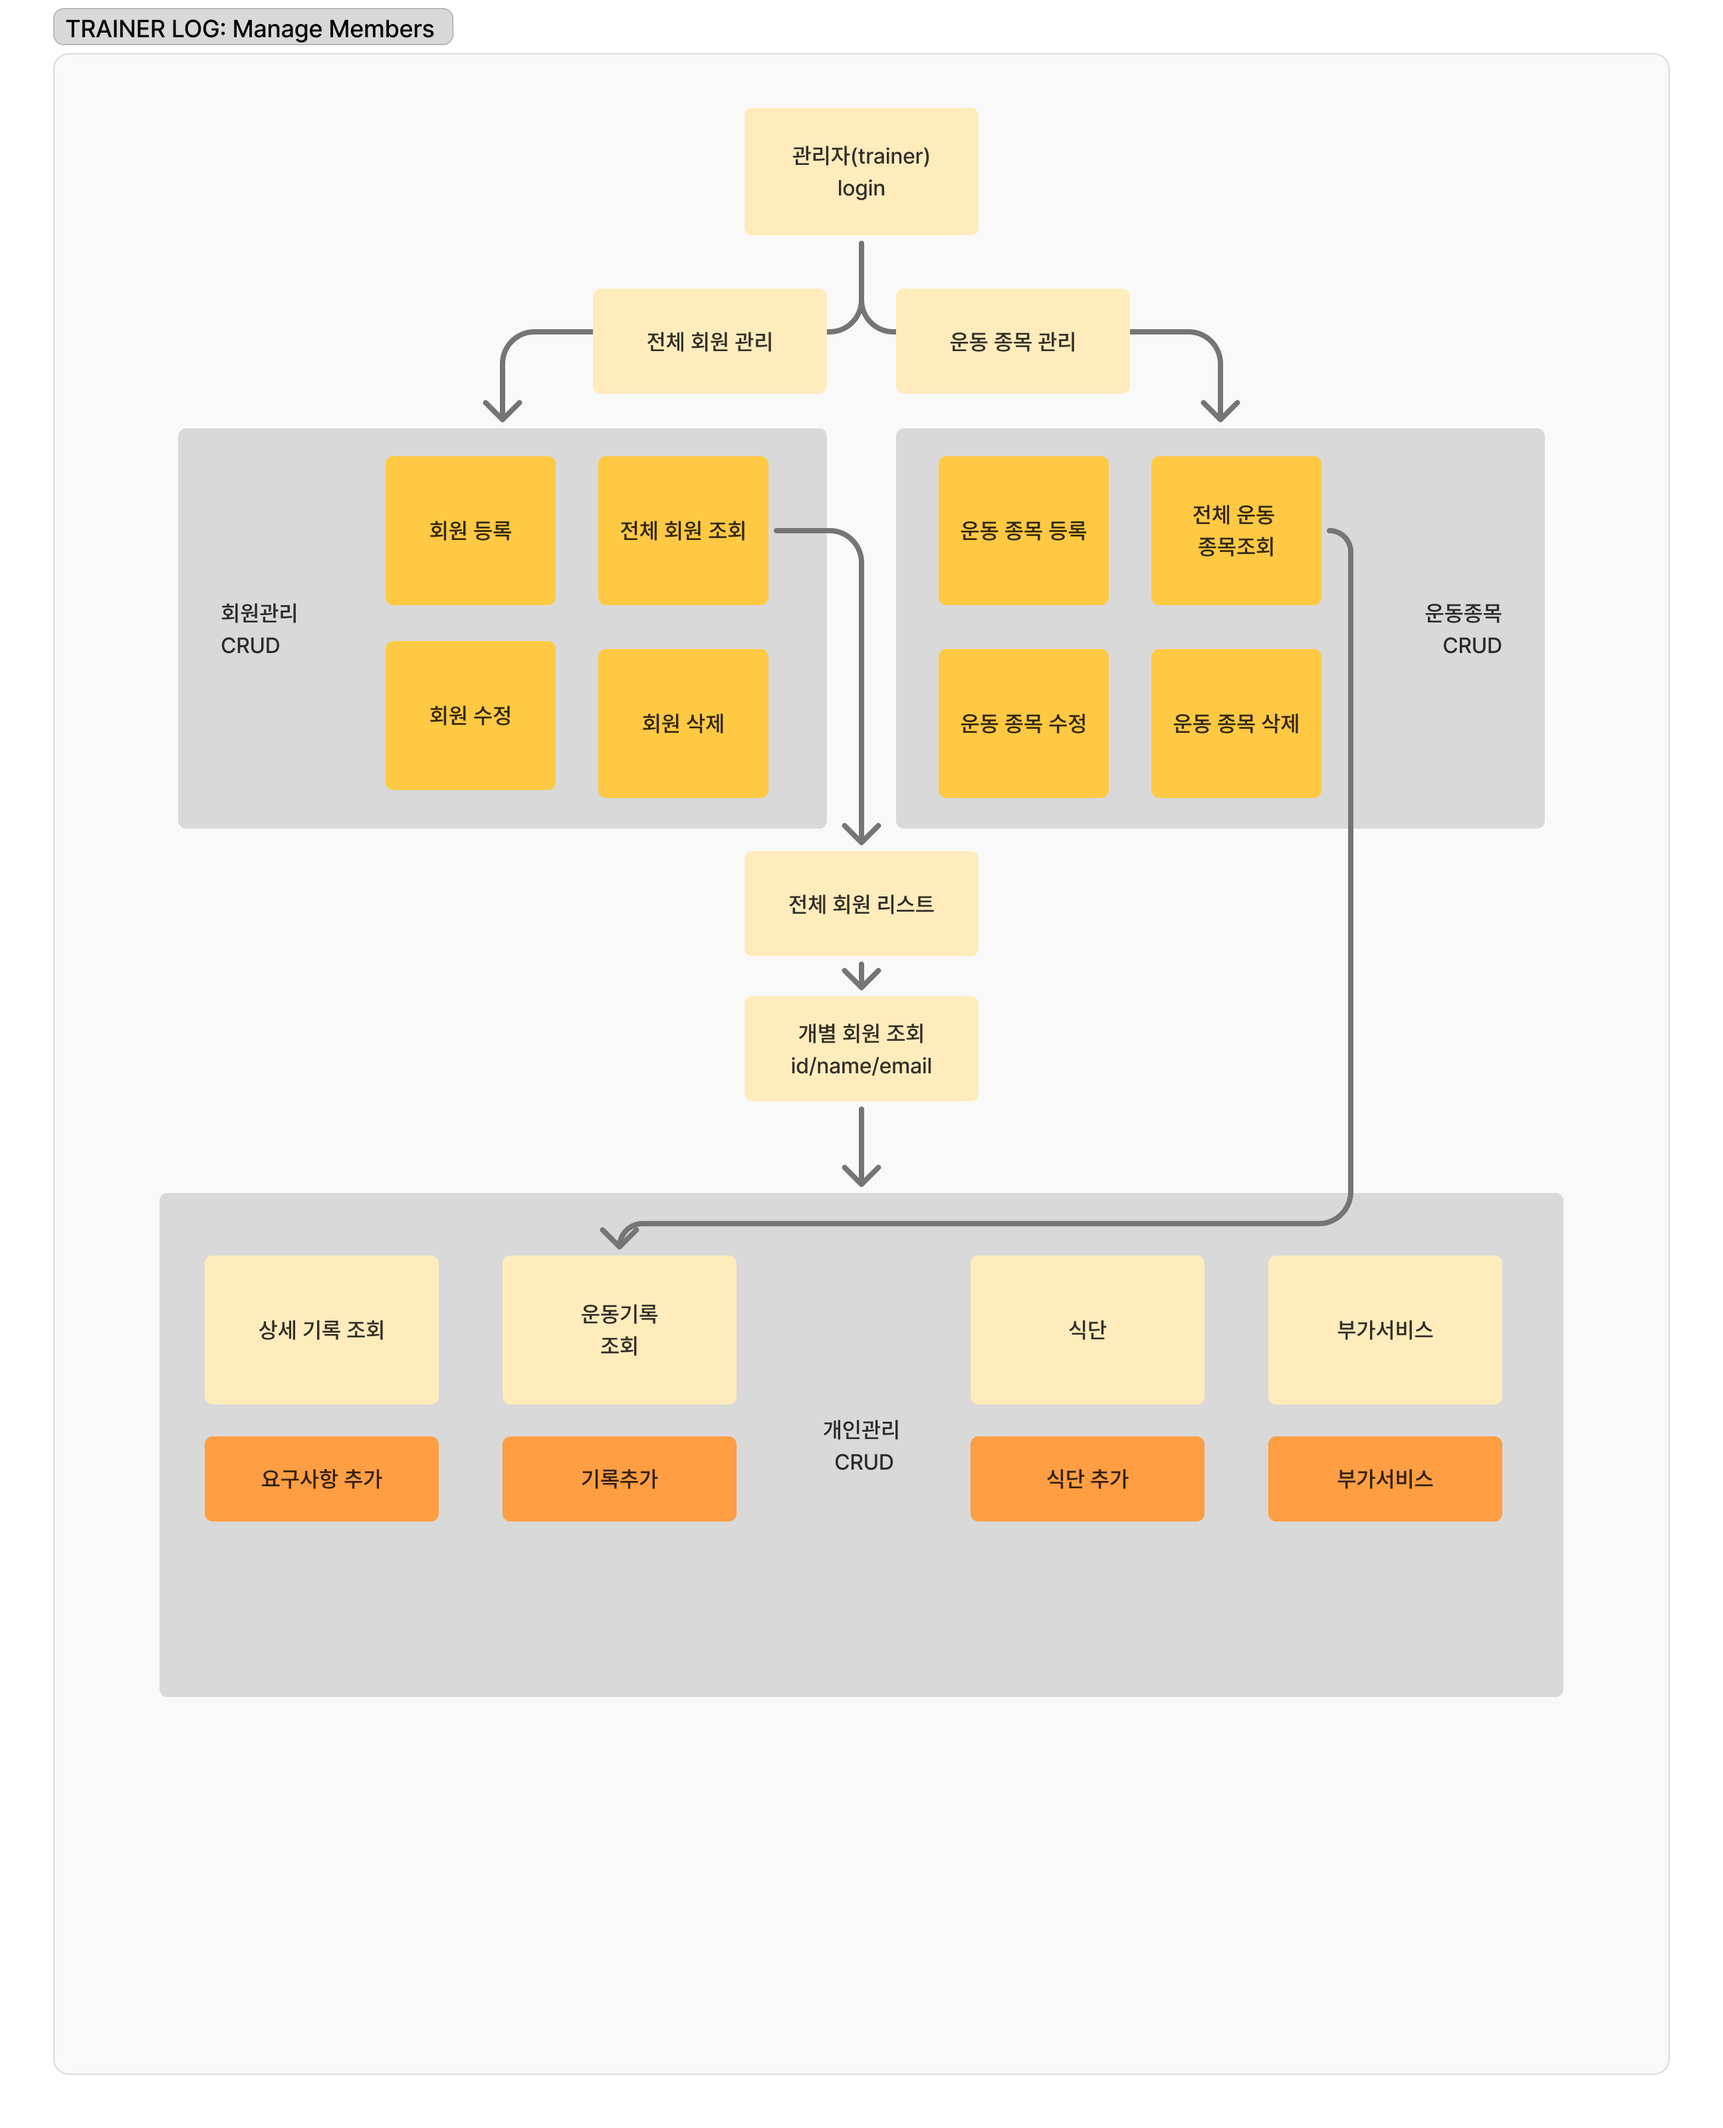
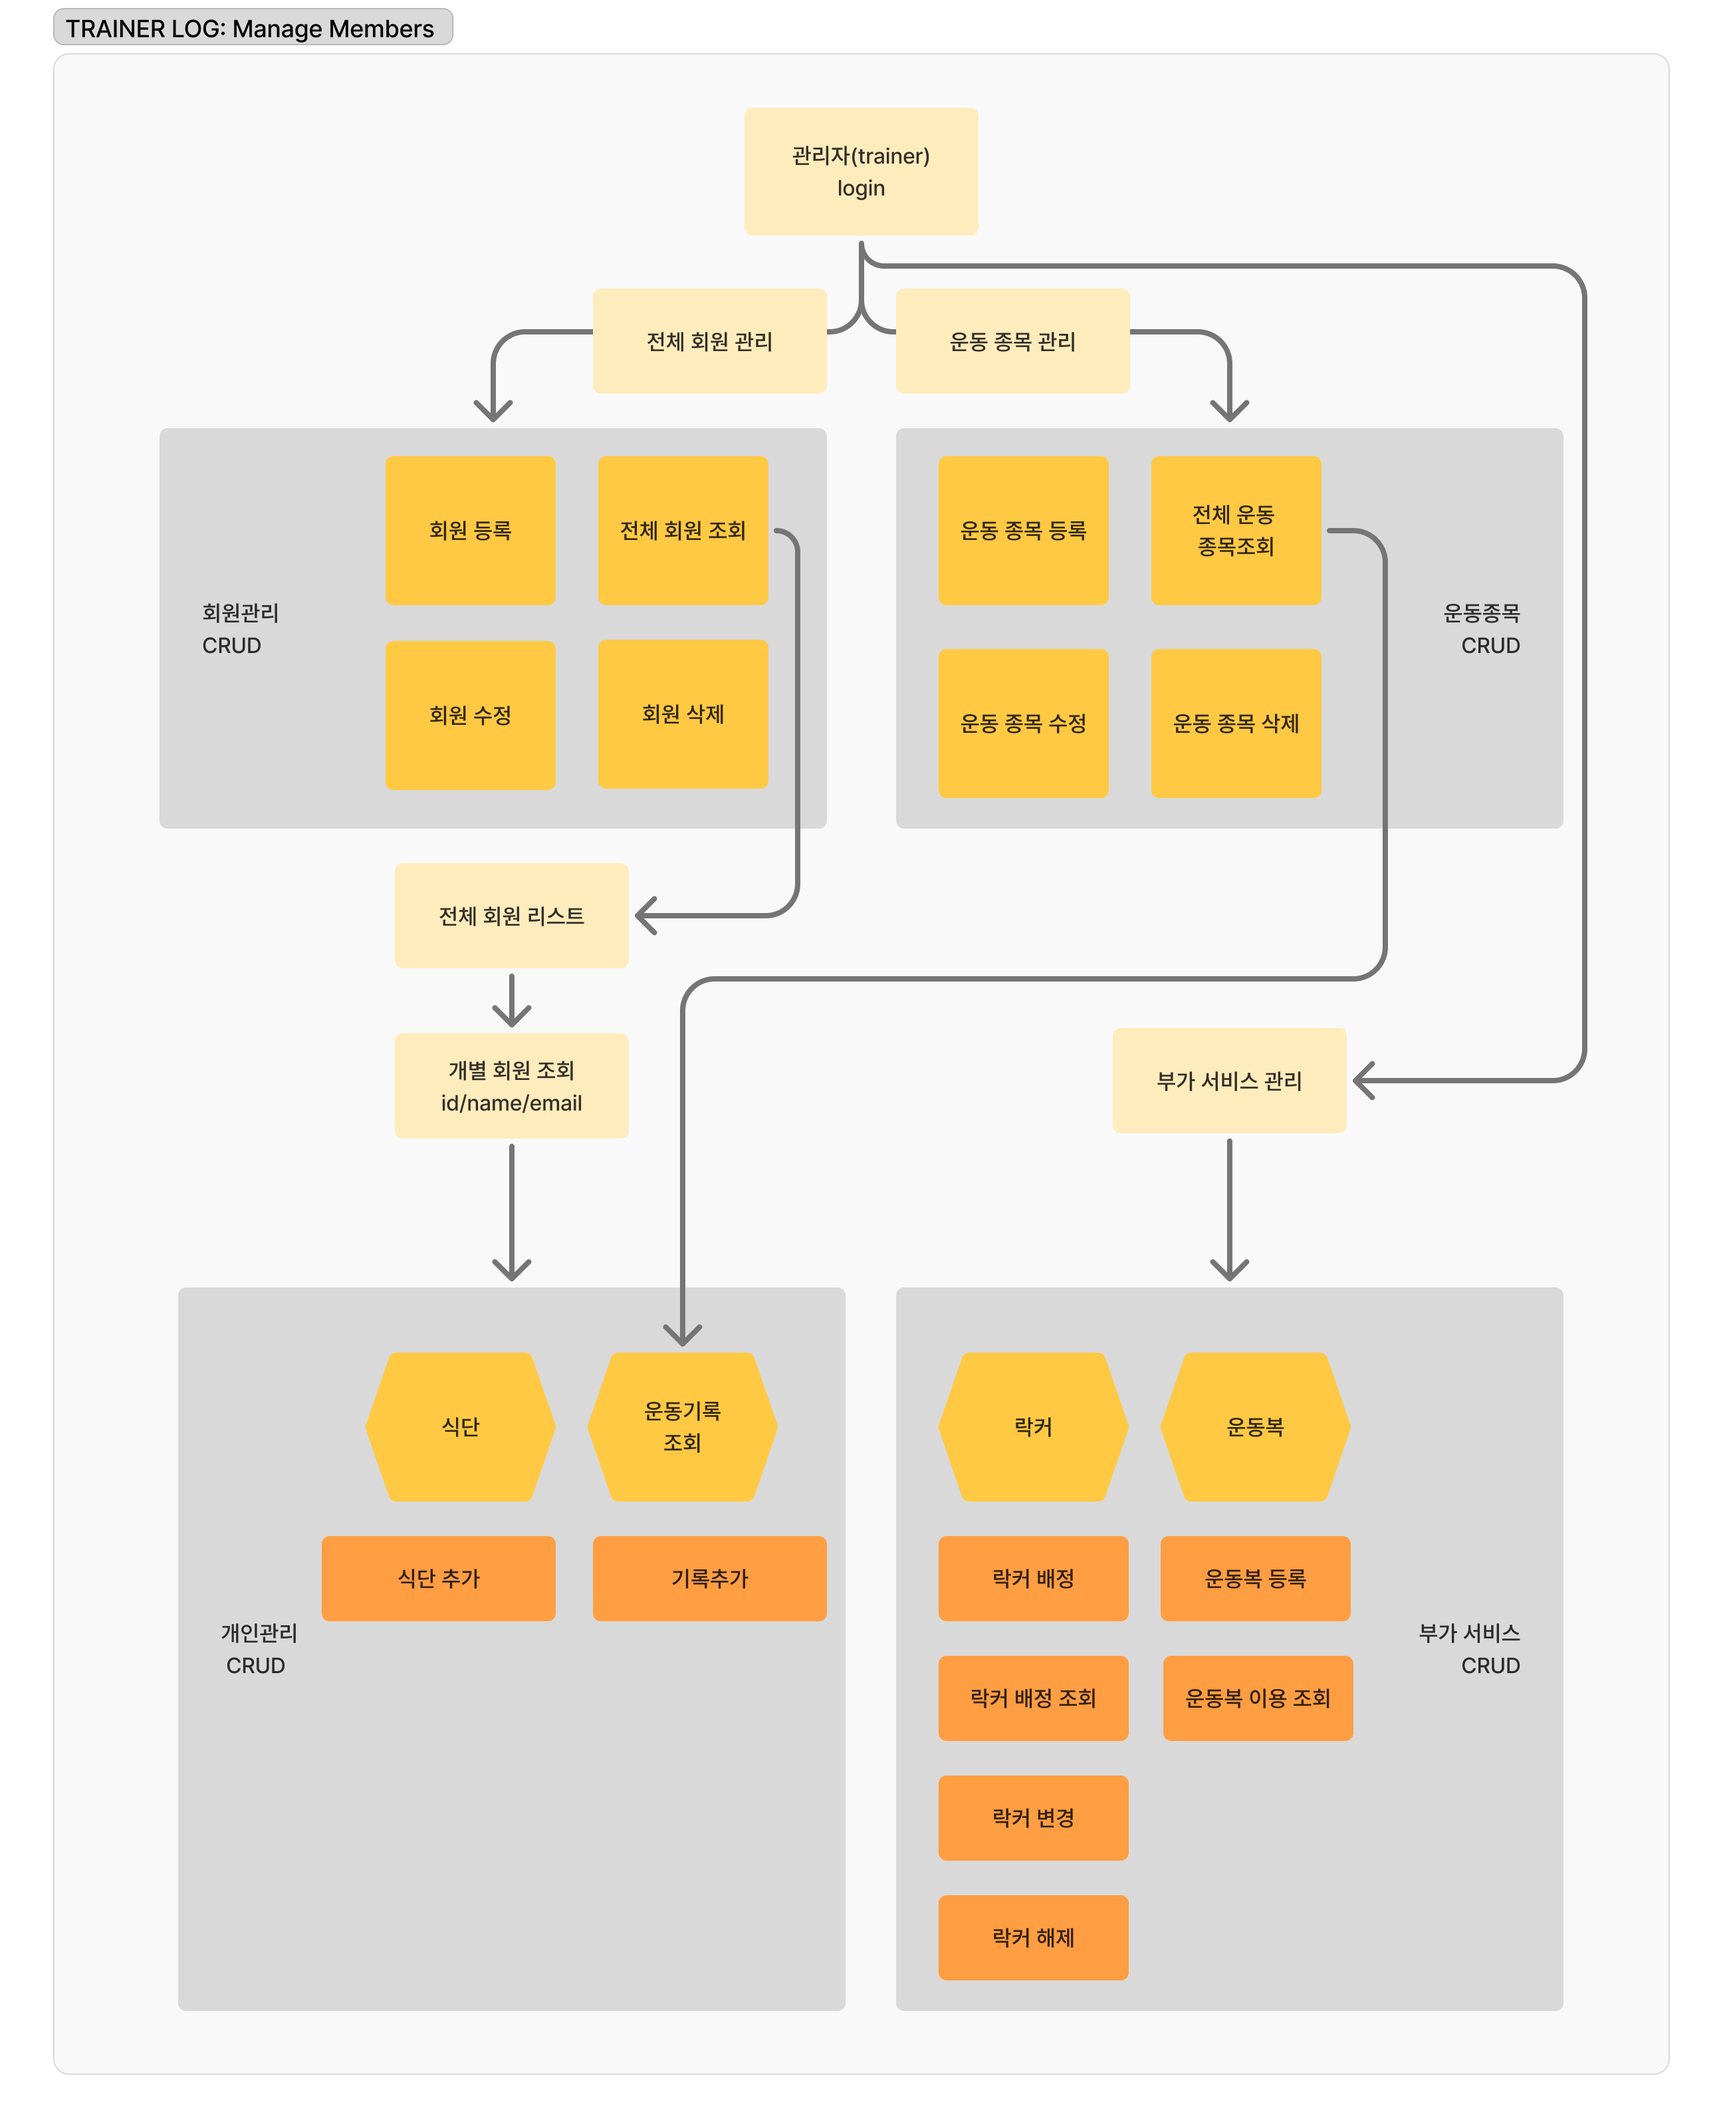
update extra_service

diff --git a/interface.py b/interface.py
@@ -4,7 +4,10 @@ import json
 from trainer_crud import TrainerCRUD
 from machine_list import MachineList
 from utils import align
-from extra_service import ExtraServiceCRUD, extra_interface
+
+# from extra_service import ExtraServiceCRUD, extra_interface
+from extra_service import ExtraServiceCRUD
+
 
 def login_interface():
     print("========관리자 로그인========")
@@ -51,8 +54,9 @@ def admin_interface(members, machines, extra):
                 return
         elif select_num == "3":
             print("3. 부가 서비스 관리를 선택하셨습니다.")
-            extra_interface(extra)
-            
+            if not extra_interface(extra):
+                return
+
         elif select_num == "0":
             print("프로그램을 종료합니다.")
             return
@@ -178,7 +182,7 @@ def detail_interface(member):
             elif detail_num == "3":
                 print("\n3. 식단 관리를 선택하셨습니다.")
                 # diet
-            
+
             elif detail_num == "9":
                 print("이전 화면으로 돌아갑니다.\n")
                 return True
@@ -236,6 +240,57 @@ def manage_machine(machines):
             print("잘못된 접근입니다.\n")
 
 
+def extra_interface(extra):
+    while True:
+        print(
+            "\n=======부가 서비스 관리=======\n"
+            "1. 락커 배정\n"
+            "2. 락커 배정 현황 조회\n"
+            "3. 락커 변경\n"
+            "4. 락커 해제\n"
+            "5. 운동복 이용 여부 등록\n"
+            "6. 운동복 이용 현황 조회\n"
+            "9. 이전으로\n"
+            "0. 프로그램 종료\n"
+            "=============================="
+        )
+        select_num = input("번호를 입력하세요: ").strip()
+        print(" ")
+
+        if select_num == "1":
+            extra.do_assign_locker()
+
+        elif select_num == "2":
+            extra.do_retrieve_lockers()
+            
+        elif select_num == "3":
+            extra.do_change_locker()
+            
+        elif select_num == "4":
+            extra.do_release_locker()
+            
+        elif select_num == "5":
+            extra.do_register_uniform()
+            
+        elif select_num == "6":
+            print("1. 전체 회원 조회\n2. 특정 회원 조회")
+            sub = input("번호를 입력하세요: ").strip()
+            if sub == "1":
+                extra.do_retrieve_uniform_all()
+            elif sub == "2":
+                extra.do_retrieve_uniform_one()
+            else:
+                print("잘못된 접근입니다.")
+        elif select_num == "9":
+            print("이전 화면으로 돌아갑니다.")
+            return True
+        elif select_num == "0":
+            print("프로그램을 종료합니다.")
+            return False
+        else:
+            print("잘못된 접근입니다.\n")
+
+
 if __name__ == "__main__":
     BASE_DIR = os.path.dirname(
         os.path.abspath(__file__)
@@ -261,12 +316,12 @@ if __name__ == "__main__":
     #     trainer_interface(members)
     train_sys = TrainerCRUD(member_path)
     machine_sys = MachineList(machine_path)
-    
-    extra_sys = ExtraServiceCRUD(os.path.join(DATA_DIR, 'members'), train_sys)
+
+    extra_sys = ExtraServiceCRUD(os.path.join(DATA_DIR, "members"), train_sys)
     train_sys.extra = extra_sys  # 회원 삭제 시 락커/운동복 정리
-        
+
     admin_interface(train_sys, machine_sys, extra_sys)
-    
+
     # trainer_interface(train_sys, extra_sys)
 
 """

diff --git a/extra_service.py b/extra_service.py
@@ -1,6 +1,7 @@
 import os
 import json
 from datetime import datetime
+from utils import *
 
 LOCKER_COUNT = 30  # 전체 락커 수 (팀과 합의 후 변경)
 TIME_FORMAT = "%y/%m/%d %H:%M:%S"
@@ -107,13 +108,16 @@ class ExtraServiceCRUD:
     def do_retrieve_lockers(self):
         used = self.locker_map()
         print(f"{'=======락커 배정 현황=======':^40}")
+        print("ㅡ" * 30)
         print(f"{'번호':<6}{'상태':<8}{'회원 아이디':<14}{'이름':<10}{'배정일시'}")
+        print("ㅡ" * 30)
         for no in range(1, LOCKER_COUNT + 1):
             if no in used:
                 member, data = used[no]
                 print(f"{no:<8}{'사용중':<8}{member['user_id']:<16}{member['name']:<10}{data['assign_time']}")
             else:
                 print(f"{no:<8}{'비어있음':<8}")
+        print("ㅡ" * 30)
         print(f"사용 {len(used)} / 전체 {LOCKER_COUNT} (빈 락커 {LOCKER_COUNT - len(used)})")
         return True
 
@@ -196,13 +200,16 @@ class ExtraServiceCRUD:
             print("등록된 회원이 없습니다.")
             return False
         print(f"{'=======운동복 이용 현황=======':^40}")
+        print("ㅡ" * 20)
         print(f"{'회원 아이디':<14}{'이름':<10}{'운동복'}")
         use_count = 0
+        print("ㅡ" * 20)
         for member in members:
             use = self.read_data(member["user_id"])["use_uniform"]
             if use:
                 use_count += 1
-            print(f"{member['user_id']:<16}{member['name']:<10}{self.uniform_text(use)}")
+            print(f"{member['user_id']:<{19-align(member['user_id'])}}{member['name']:<{12-align(member['name'])}}{self.uniform_text(use)}")
+        print("ㅡ" * 20)
         print(f"이용 {use_count}명 / 전체 {len(members)}명")
         return True
 
